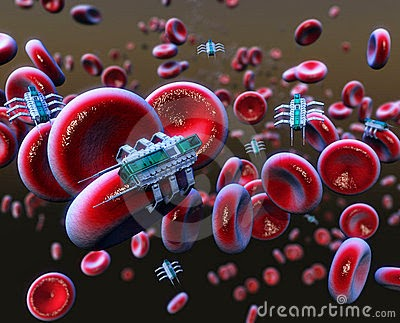
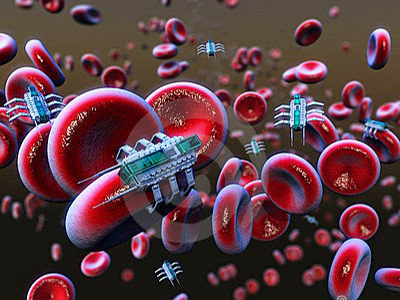
Added

diff --git a/article-1.php b/article-1.php
@@ -126,7 +126,7 @@
                     <div class="text-center" style="padding-bottom: 2em;">
                         <div id="gallery">
                             <a href="../../img/articles/1/article-primary.jpg">
-                                <img class="img-responsive-2 img-primary" src="../../img/articles/1/article-primary.jpg" alt=" ">
+                                <img class="img-responsive-2 img-primary" src="../../img/articles/1/article-primary-thumbnail.jpg" alt=" ">
                             </a>
                         </div>
                         <p class="img-text">
@@ -152,30 +152,23 @@
                         </a>
                     </div>
                     <p class="img-text">
-                        <small>Mensaje debajo de la imagen</small>
+                        <small>Cortesía de Nanotecnología Medica</small>
                     </p>
                 </div>
                 <div class="col-xs-12 col-md-12 ">
-                    <h2>
-                        <strong>Título adicional de subzona</strong>
-                    </h2>
                     <p class="lead ">
-                        Non ratione vel. Non consequatur hic et labore et quia doloribus. Dolorum rerum dignissimos inventore id corporis rerum. At nesciunt ut error est soluta qui quibusdam blanditiis animi. Ad saepe quia at numquam temporibus quisquam ipsa. Ab omnis aut ratione
-                        ipsam voluptates quia. Veniam temporibus et. Aperiam sint veniam libero perferendis a. Quisquam optio quidem et.
+                        Las nanomáquinas, reconstruirán tejidos óseos. Entrarán y saldrán de las células, al detectar algún cambio o defecto, enviando un mensaje con un diagnóstico y una orden a los nano terapeutas: estos entran a la célula y la vuelven a su estado normal. Sin nanomedicina la NASA tendría muchas dificultades en sus expediciones espaciales. 
                     </p>
-                    <blockquote cite="http://where-i-got-my-info-from.com ">
-                        <p>
-                            Non ratione vel. Non consequatur hic et labore et quia doloribus. Dolorum rerum dignissimos inventore id corporis rerum. At nesciunt ut error est soluta qui quibusdam blanditiis animi. Ad saepe quia at numquam temporibus quisquam ipsa. Ab omnis aut ratione
-                            ipsam voluptates quia. Veniam temporibus et. Aperiam sint veniam libero perferendis a. Quisquam optio quidem et.
-                        </p>
-                        <cite>
-                            <a href="#0">John Doe</a>
-                        </cite>
-                    </blockquote>
-                    <p class="lead">
-                        Non ratione vel. Non consequatur hic et labore et quia doloribus. Dolorum rerum dignissimos inventore id corporis rerum. At nesciunt ut error est soluta qui quibusdam blanditiis animi. Ad saepe quia at numquam temporibus quisquam ipsa. Ab omnis aut ratione
-                        ipsam voluptates quia. Veniam temporibus et. Aperiam sint veniam libero perferendis a. Quisquam optio quidem et.
+                    <p class="lead ">
+                        Estos robots médicos, son los resultados de una posible cura para todas las patologías mortales.  Este importante hecho, será de gran impacto para sociedad   actual. 
                     </p>
+                    <p class="lead ">
+                        Una importante pregunta, es: ¿Cómo el nano médico será introducido al organismo humano? Por medio de una píldora o capsula que sería consumida de forma oral en el ser humano.
+                    </p>
+                    <p class="lead ">
+                        Este hecho tecnológico fue inspirado en una película de ficción llamada «Un viaje alucinante». Esta producción cinematográfica tiene como parte de su trama hacer un viaje en submarino dentro del organismo humano en búsqueda de un coágulo de sangre, para así eliminarlo y resguardar la salud del humano.
+                    </p>
+                    <h3 class="summary">Fuentes: OMPI y ScienceAlert</h3>
                 </div>
             </div>
         </div>
